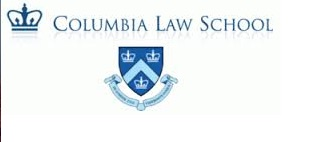
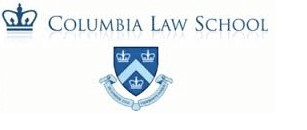
Flexbox is not working for me :(

Changed region(s): [[0.0, 0.0, 0.8795, 1.0], [0.3225, 0.3077, 0.5863, 0.8615]]

diff --git a/lawstudents.html b/lawstudents.html
@@ -67,48 +67,48 @@
 	<div class="law-1 lawschool">
 			<img src="images/Columbia Law School.jpg" alt="columbialaw"/>
 
-				<h4> <b>Columbia Law School</b> <br>Contact: Elizabeth Emens,<br><a href="mailto:eemens@law.columbia.edu"> eemens@law.columbia.edu>> </a> </h4>
+				<h4> <b>Columbia Law School</b> Contact: Elizabeth Emens,<a href="mailto:eemens@law.columbia.edu"> eemens@law.columbia.edu>> </a> </h4>
 	</div>
 
 	<div class="law-2 lawschool">
 			<img src="images/Geogia State Law.jpg" alt="Georgia"/>
 
-				<h4> Georgia State University <br> Contact: Charity Scott, <br><a href="mailto:charity@gsu.edu"> charity@gsu.edu >> </h4> </a>
+				<h4> Georgia State University  Contact: Charity Scott, <a href="mailto:charity@gsu.edu"> charity@gsu.edu >> </h4> </a>
 	</div>
 
 	<div class="law-3 lawschool">
 			<img src="images/Northwestern Law.jpg" alt="Nothwestern"/>
-				<h4>  Northwestern <br>Contact: Len Riskin, <br> <a href="mailto:l-riskin@law.northwestern.edu"> l-riskin@law.northwestern.edu >> </h4> </a>
+				<h4>  Northwestern Contact: Len Riskin, <a href="mailto:l-riskin@law.northwestern.edu"> l-riskin@law.northwestern.edu >> </h4> </a>
 	</div>
 
 	<div class="law-4 lawschool">
 			<img src="images/Southwestern Law School.jpg" alt="Southwestern"/>
-					<h4>Southwestern Law School <br> Contact: Rebecca Simon, <br> <a href="mailto:rsimon@swlaw.edu"> rsimon@swlaw.edu >> </h4> </a>
+					<h4>Southwestern Law School Contact: Rebecca Simon, <a href="mailto:rsimon@swlaw.edu"> rsimon@swlaw.edu >> </h4> </a>
 				</div>
 
 
 	<div class="law-5 lawschool">
 			<img src="images/University of Miami school of law.jpg" alt="Miami"/>
 
-				<h4>University of Miami School of Law <br> Contact: Scott Rogers, <br> <a href="mailto:srogers@law.miami.edu"> srogers@law.miami.edu>> </h4> </a>
+				<h4>University of Miami School of Law Contact: Scott Rogers, <a href="mailto:srogers@law.miami.edu"> srogers@law.miami.edu>> </h4> </a>
 	</div>
 
 		<div class="law-6 lawschool">
 				<img src="images/University of Missouri School of Law.jpg" alt="Missouri"/>
 
-				<h4> University of Missouri School of Law <br> Contact: Richard Rueben, <br><a href="mailto:ReubenR@missouri.edu"> ReubenR@missouri.edu >> </h4> </a>
+				<h4> University of Missouri School of Law Contact: Richard Rueben, <a href="mailto:ReubenR@missouri.edu"> ReubenR@missouri.edu >> </h4> </a>
 		</div>
 
 		<div class="law-7 lawschool">
 				<img src="images/William Mary Law School.jpg" alt="William"/>
 
-				<h4> William & Mary Law School <br> Contact: Rebecca Green, <br> <a href="mailto:rggreen@wm.edu"> rggreen@wm.edu  >> </h4> </a>
+				<h4> William & Mary Law School Contact: Rebecca Green, <a href="mailto:rggreen@wm.edu"> rggreen@wm.edu  >> </h4> </a>
 		</div>
 
 		<div class="law-8 lawschool">
 				<img src="CUNY.png" alt="Cuny"/>
 
-				<h4> The City University of New York School of Law <br> Contact: Victor Goode, <br> <a href="mailto:goode@law.cuny.edu"> goode@law.cuny.edu >> </h4> </a>
+				<h4> The City University of New York School of Law Contact: Victor Goode, <a href="mailto:goode@law.cuny.edu"> goode@law.cuny.edu >> </h4> </a>
 		</div>
 
 	</div> <!--advisors-->

diff --git a/style.css b/style.css
@@ -750,19 +750,75 @@ background: #dcd0c0;
 
 .schools{
   display:flex;
-  flex-flow: wrap;
+  flex-flow:row wrap;
+  justify-content:space-around;
+  width: 100%;
 }
 
-.schools{
-  margin-left: 2em;
+.schoolscolumn{
+  display:flex;
+  flex-flow: row wrap;
+  justify-content: space-around;
+
 }
-  .schools{
-    display:flex;
-  }
+
+.lawschool{
+  width: 50%;
+  display: flex wrap;
+  padding-bottom: 2em;
+}
 
   .schools img{
     display: flex;
+    flex-flow: row wrap;
+    padding-bottom: 10px;
   }
+
+
+
+
+  .law-1 img{
+    width: 240px;
+    height: auto;
+  }
+
+  .law-2 img{
+    width: 200px;
+    height: auto;
+  }
+
+  .law-3 img{
+    width: 150px;
+    height: auto;
+    padding-bottom: 1em;
+  }
+
+  .law-4 img{
+    width: 240px;
+    height: auto;
+  }
+
+  .law-5 img{
+    width: 240px;
+    height: auto;
+    padding-bottom: 1em;
+  }
+
+  .law-6 img{
+    width: 200px;
+    height: auto;
+  }
+
+  .law-7 img{
+    width: 200px;
+    height: auto;
+  }
+
+  .law-8 img{
+    width: 230px;
+    height: auto;
+  }
+
 
 .aboutdirectors {
   display: flex;
